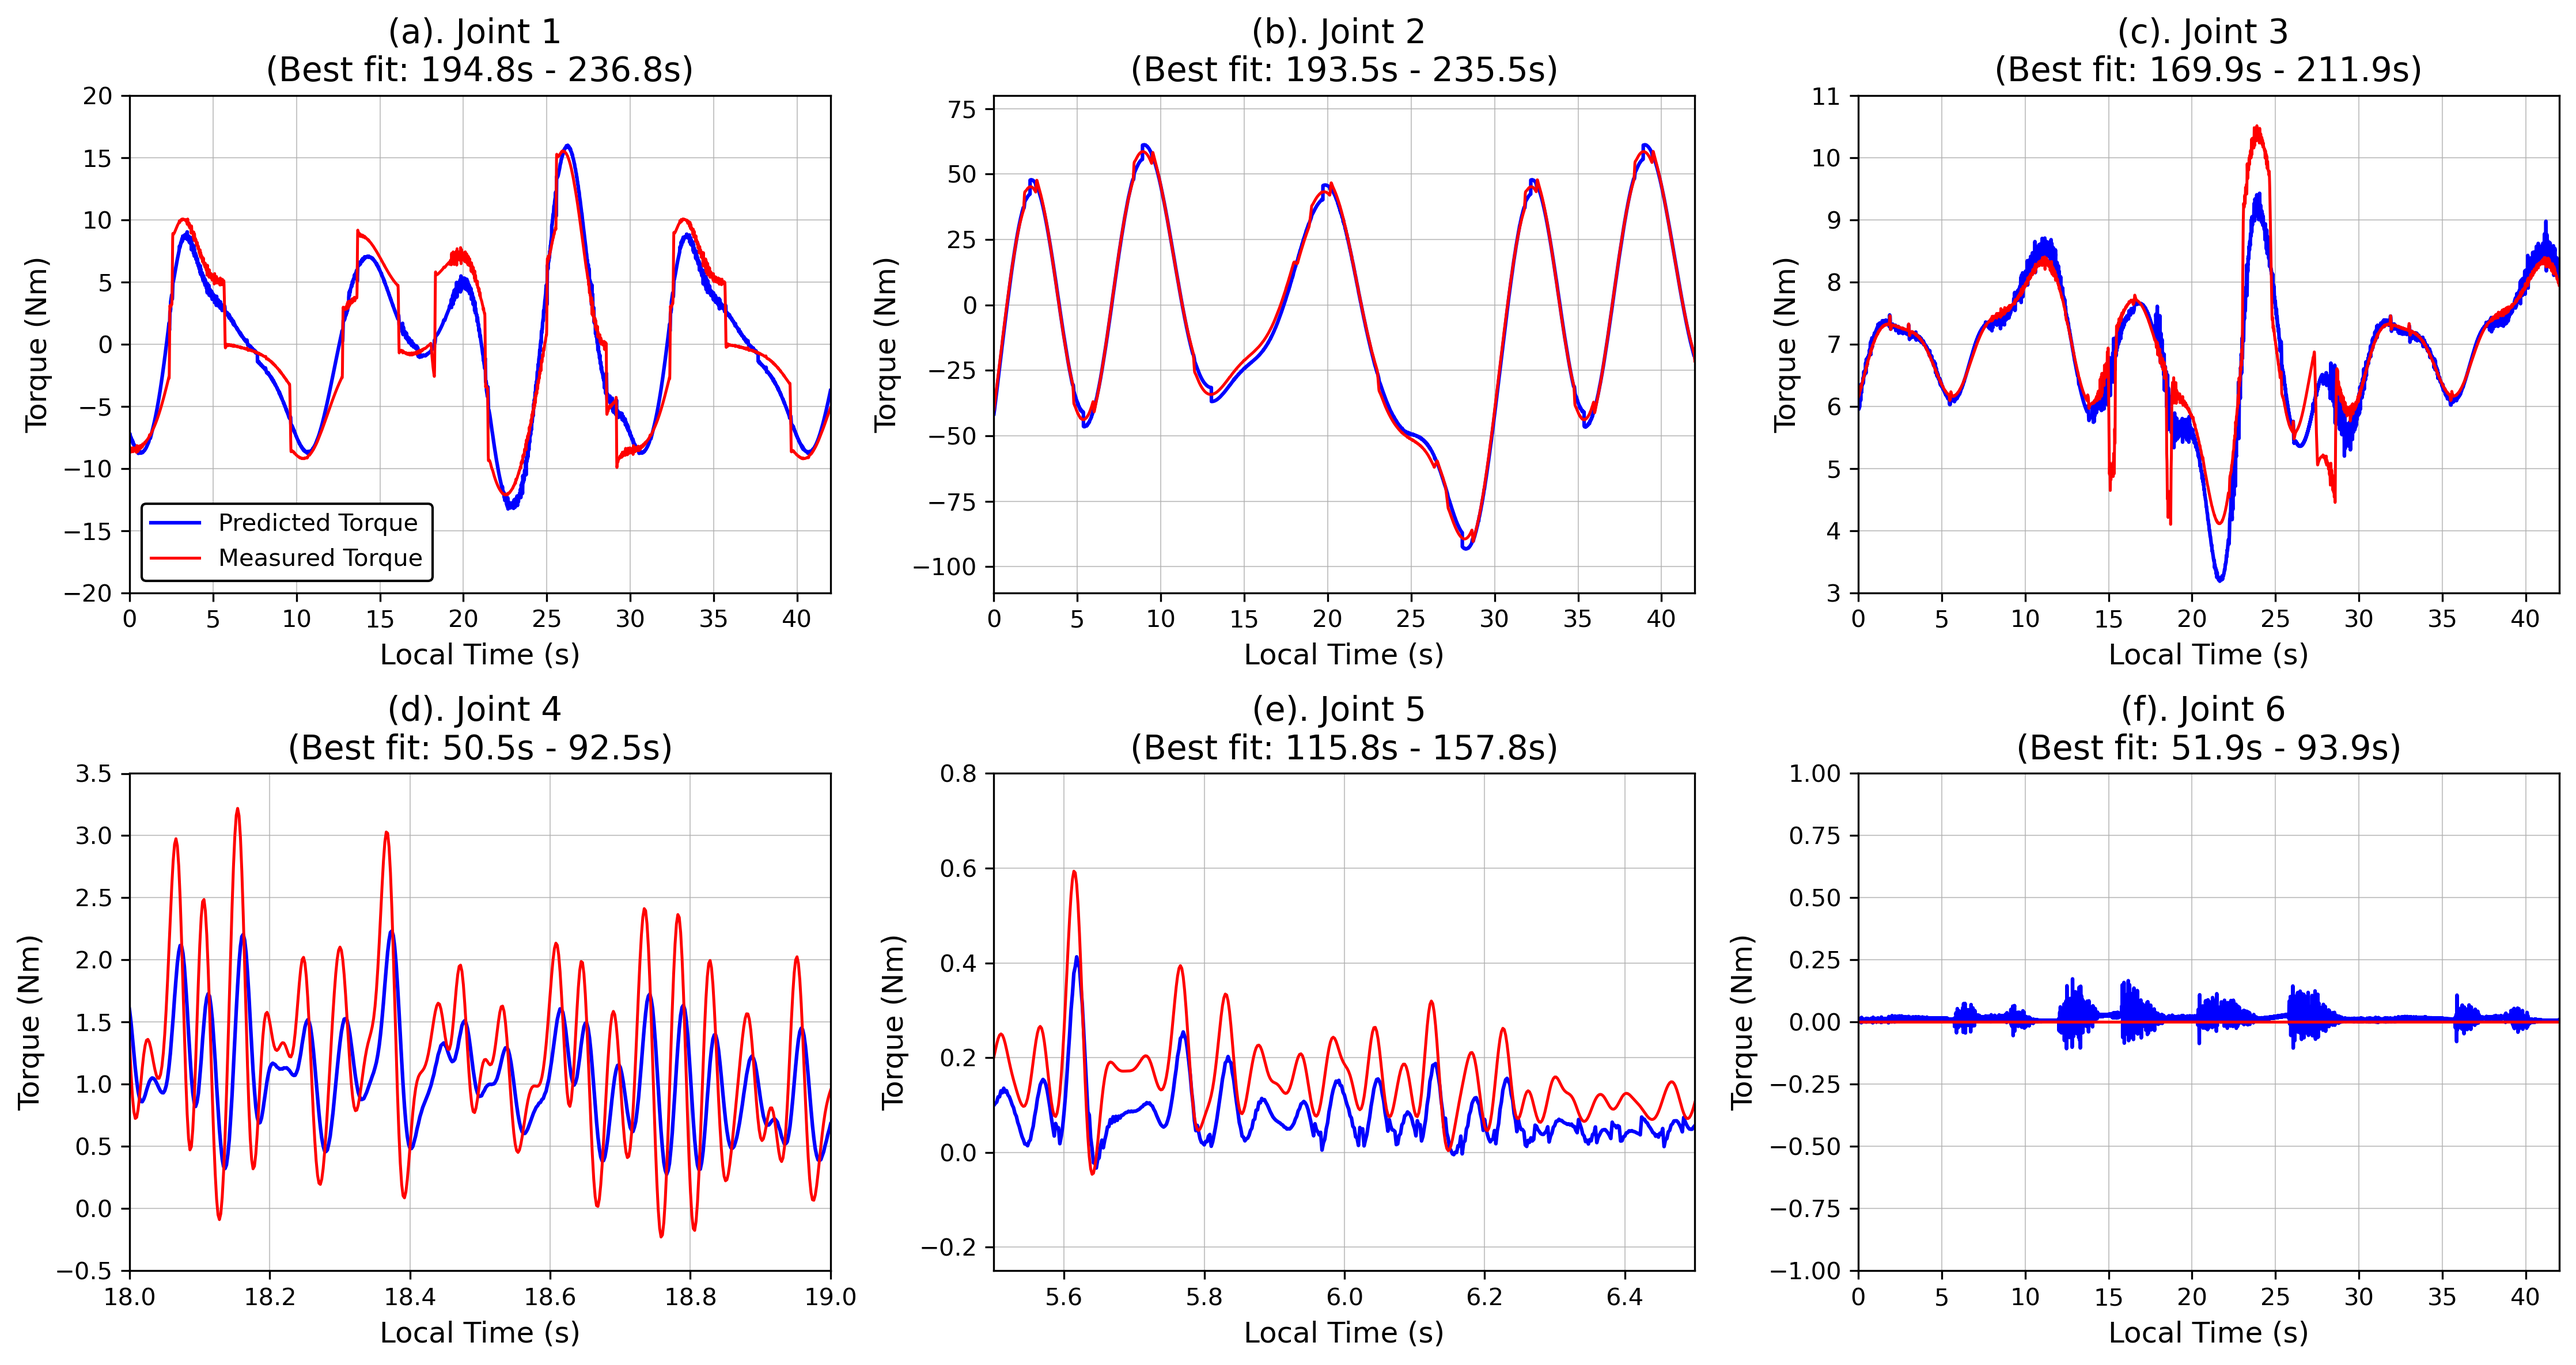
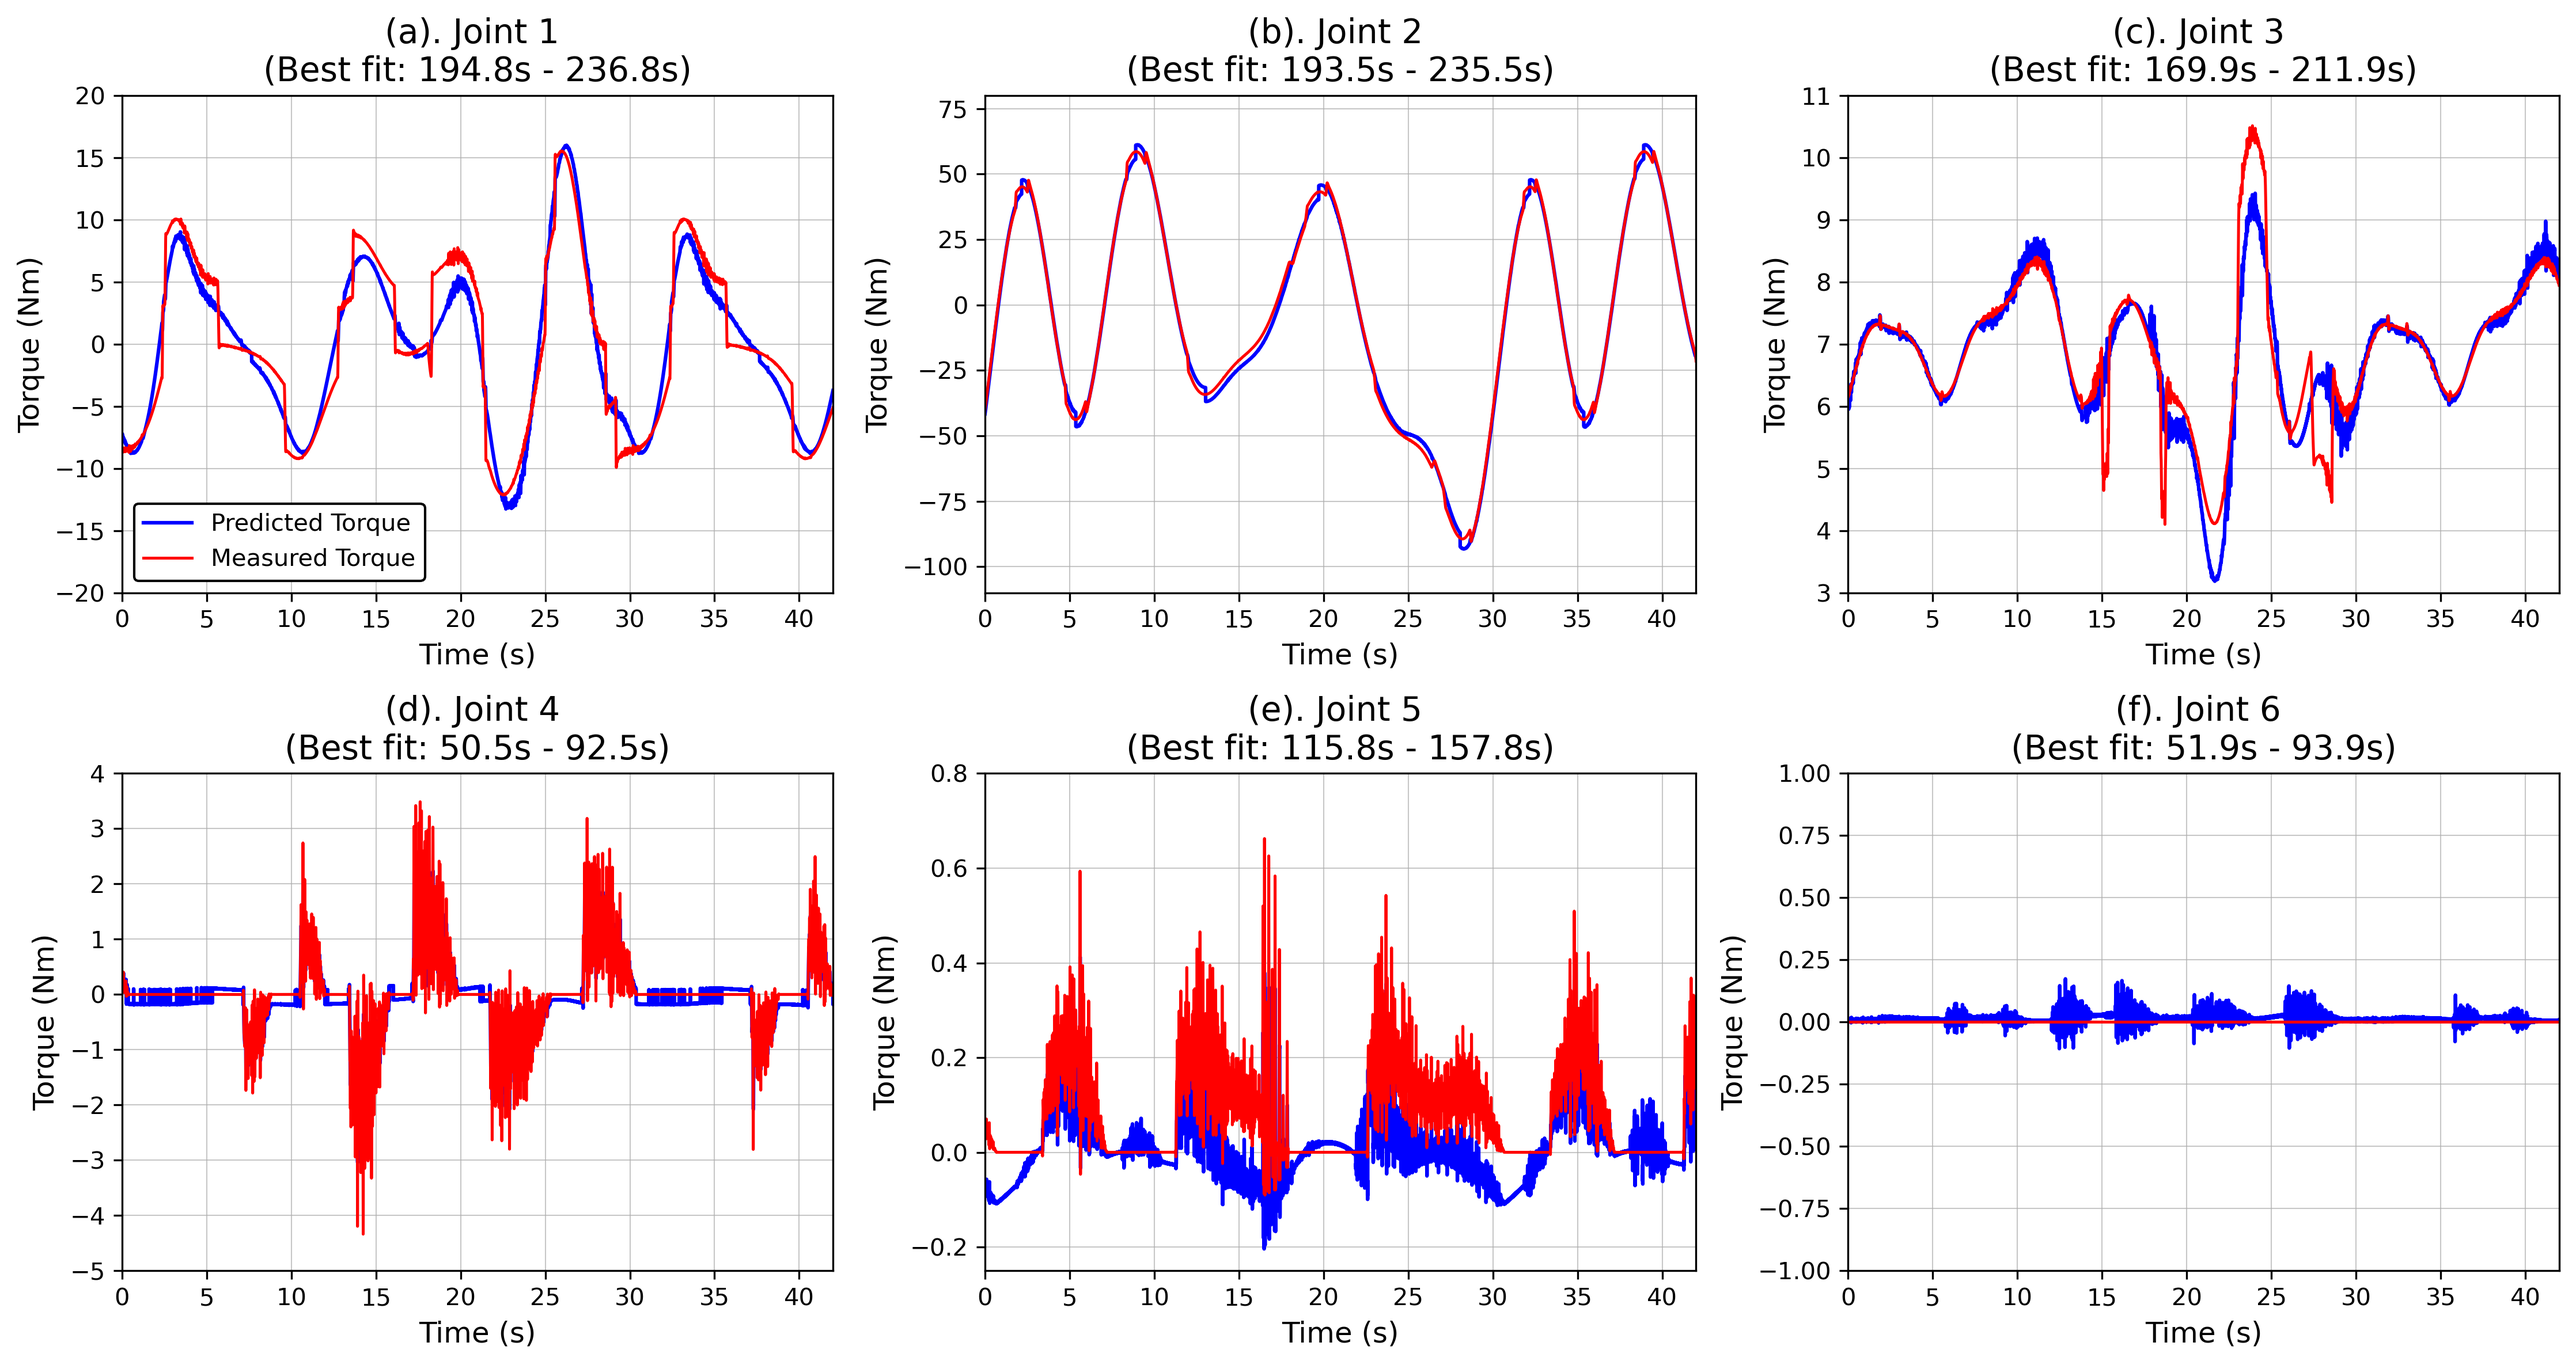
added kinematic_phase_lag plotter

diff --git a/wang/3_parameter_extraction/plot_verification_torques.py b/wang/3_parameter_extraction/plot_verification_torques.py
@@ -118,8 +118,8 @@ def main():
         0: {'xlim': (0, 42), 'ylim': (-20, 20)},    # Joint 1
         1: {'xlim': (0, 42), 'ylim': (-110, 80)},   # Joint 2
         2: {'xlim': (0, 42), 'ylim': (3, 11)},      # Joint 3
-        3: {'xlim': (18, 19), 'ylim': (-0.5, 3.5)}, # Joint 4 
-        4: {'xlim': (5.5, 6.5),  'ylim': (-0.25, 0.8)},  # Joint 5 
+        3: {'xlim': (0, 42), 'ylim': (-5.0, 4.0)}, # Joint 4 
+        4: {'xlim': (0, 42),  'ylim': (-0.25, 0.8)},  # Joint 5 
         5: {'xlim': (0, 42), 'ylim': (-1.0, 1.0)}   # Joint 6
     }
 
@@ -135,7 +135,7 @@ def main():
         tau_m_slice = tau_m_filt[start_idx:end_idx, j]
         
         # Reset the local time array to start exactly at 0.0 for clean X-axis formatting
-        t_plot_local = t_slice - t_slice[0]
+        # t_plot_local = t_slice - t_slice[0]
         
         # Plot predicted (Blue) and measured (Red)
         ax.plot(t_plot_local, tau_p_slice, color='blue', label='Predicted Torque', linewidth=1.5)
@@ -143,7 +143,7 @@ def main():
         
         # Formatting exactly like the reference image, but updating title with actual times
         ax.set_title(f"{letters[j]}. Joint {j+1} \n(Best fit: {t_slice[0]:.1f}s - {t_slice[-1]:.1f}s)", fontsize=14)
-        ax.set_xlabel("Local Time (s)", fontsize=12)
+        ax.set_xlabel("Time (s)", fontsize=12)
         ax.set_ylabel("Torque (Nm)", fontsize=12)
         
         # Apply the custom limits from our config dictionary
